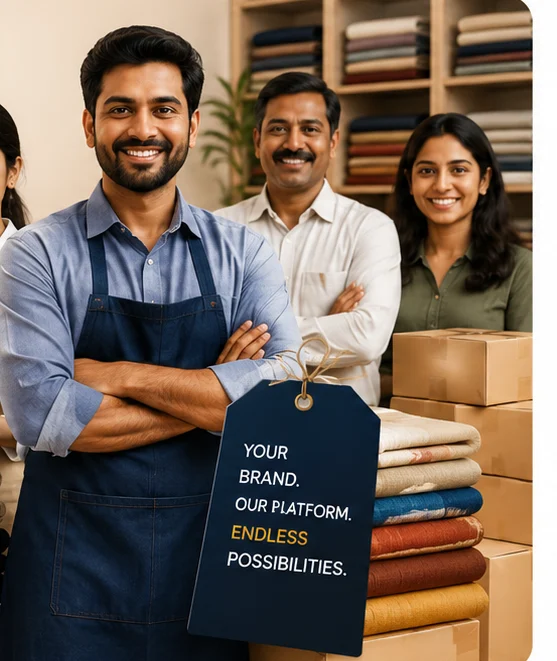
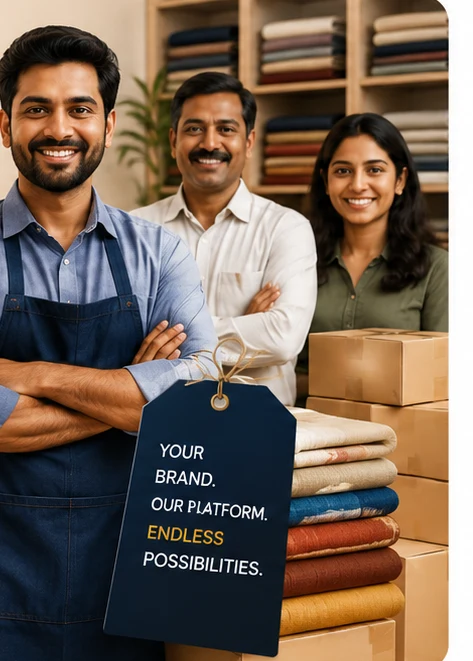
Fix the seller photo's leading edge
Two faults met at the same edge.

The crop started 84px too far left and caught a fourth figure sliced down
her middle, leaving a strip of shoulder and hair standing at the photo's
leading edge — read as a gap between the cream panel and the picture. It
mattered because of geometry: the panel is 335x176 against a 557-wide
source, so object-cover scales by WIDTH and crops nothing horizontally.
Whatever sits at the source's left edge is on screen, every time. The box
moves from 1324 instead of 1240, past her entirely.

And the hover zoom ran from the default centre, which walks that edge
outward, drags darker content against the cream and turns a soft join into
a hard vertical line — the edge appearing to cut. origin-left pins it: the
zoom grows rightward into the panel, where it is clipped and unseen.

The fade also came down from 5rem to 2.5rem. At 5rem the cream wash reached
far enough in to sit on the nearest face, which is the wrong thing to fog;
with only an edge to soften now rather than a sliced figure to hide, it
needs less room.

Asset is 473x661, 55KB.

diff --git a/frontend/src/components/WebSite/VendorPartnerCTA/VendorPartnerCTA.tsx b/frontend/src/components/WebSite/VendorPartnerCTA/VendorPartnerCTA.tsx
@@ -39,9 +39,15 @@ import Reveal from '@/components/WebSite/Shared/Reveal';
  * The colours are sampled from the artwork rather than matched by eye: navy
  * #0c1e38, gold #bd8023, the button's brighter gold #f8b341, cream ground
  * #f9f2e9. m2cseller-photo.webp is the photograph cut straight out of
- * m2cseller.png (source box 1240,132 557x661, right of the badge and inside the
- * artwork's white margin) — 56KB against the original's 1602KB, and the full
- * PNG no longer loads on this page at all.
+ * m2cseller.png — source box 1324,132 473x661: right of the badge, inside the
+ * artwork's white margin, and 84px further right than the first attempt, which
+ * sliced a fourth figure in half and left her as a strip of shoulder and hair
+ * down the photo's leading edge. 55KB against the original's 1602KB, and the
+ * full PNG no longer loads on this page at all.
+ *
+ * That leading edge matters more than it looks: the panel is 335x176 against a
+ * 557-wide source, so `cover` scales by WIDTH and crops nothing horizontally —
+ * whatever sits at the source's left edge is on screen, every time.
  */
 
 /** The four perk titles, verbatim from the artwork. */
@@ -116,16 +122,27 @@ export default function VendorPartnerCTA() {
                 src="/assets/images/banner/m2cseller-photo.webp"
                 alt=""
                 loading="lazy"
-                className="absolute inset-0 h-full w-full object-cover object-[50%_12%] transition-transform duration-700 ease-out group-hover:scale-[1.04]"
+                /* origin-left, not the default centre. Scaling from the centre
+                   walks the photo's left edge outward on hover, which drags
+                   darker content up against the cream and turns a soft join
+                   into a hard vertical line — the edge appearing to "cut".
+                   Anchored left, that edge never moves: the zoom grows to the
+                   right, into the panel, where it is clipped and unseen. */
+                className="absolute inset-0 h-full w-full origin-left object-cover object-[50%_12%] transition-transform duration-700 ease-out group-hover:scale-[1.03]"
               />
-              {/* Fades the photo's cut edge into the cream so the two halves
+              {/* Softens the photo's cut edge into the cream so the two halves
                   read as one panel rather than as a picture pasted beside text.
                   The stop fades to the ground's own colour at zero alpha —
                   `transparent` is rgba(0,0,0,0) and would drag the midpoint
-                  through black, leaving a grey smear along the seam. */}
+                  through black, leaving a grey smear along the seam.
+
+                  Narrower than it was: at 5rem the wash reached far enough in to
+                  sit on the nearest face, which is the wrong thing to fog. The
+                  crop it has to hide is only an edge now, not a sliced figure,
+                  so it needs less room to do it. */}
               <span
                 aria-hidden
-                className="pointer-events-none absolute inset-y-0 left-0 w-20 bg-linear-to-r from-[#f2e6d5] to-[rgba(242,230,213,0)]"
+                className="pointer-events-none absolute inset-y-0 left-0 w-10 bg-linear-to-r from-[#f2e6d5] via-[rgba(242,230,213,0.55)] to-[rgba(242,230,213,0)]"
               />
             </div>
           </Link>
